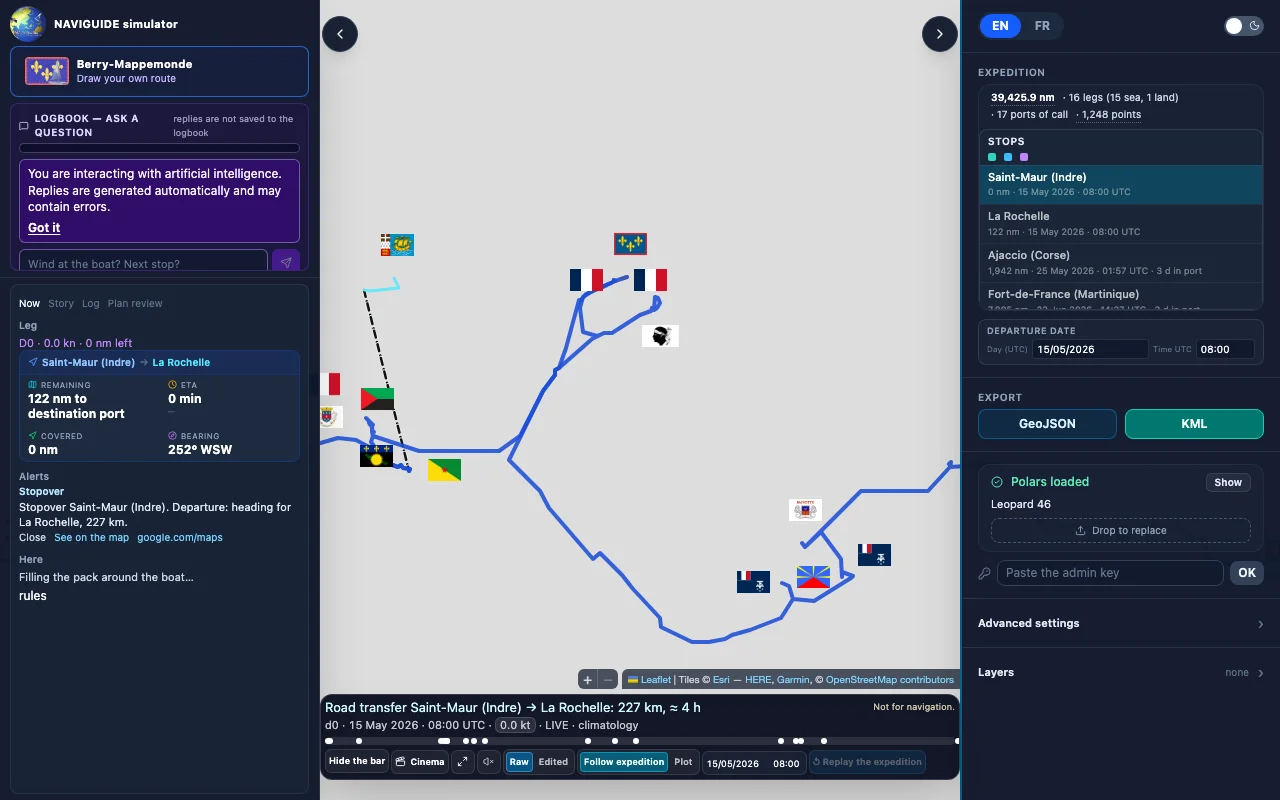
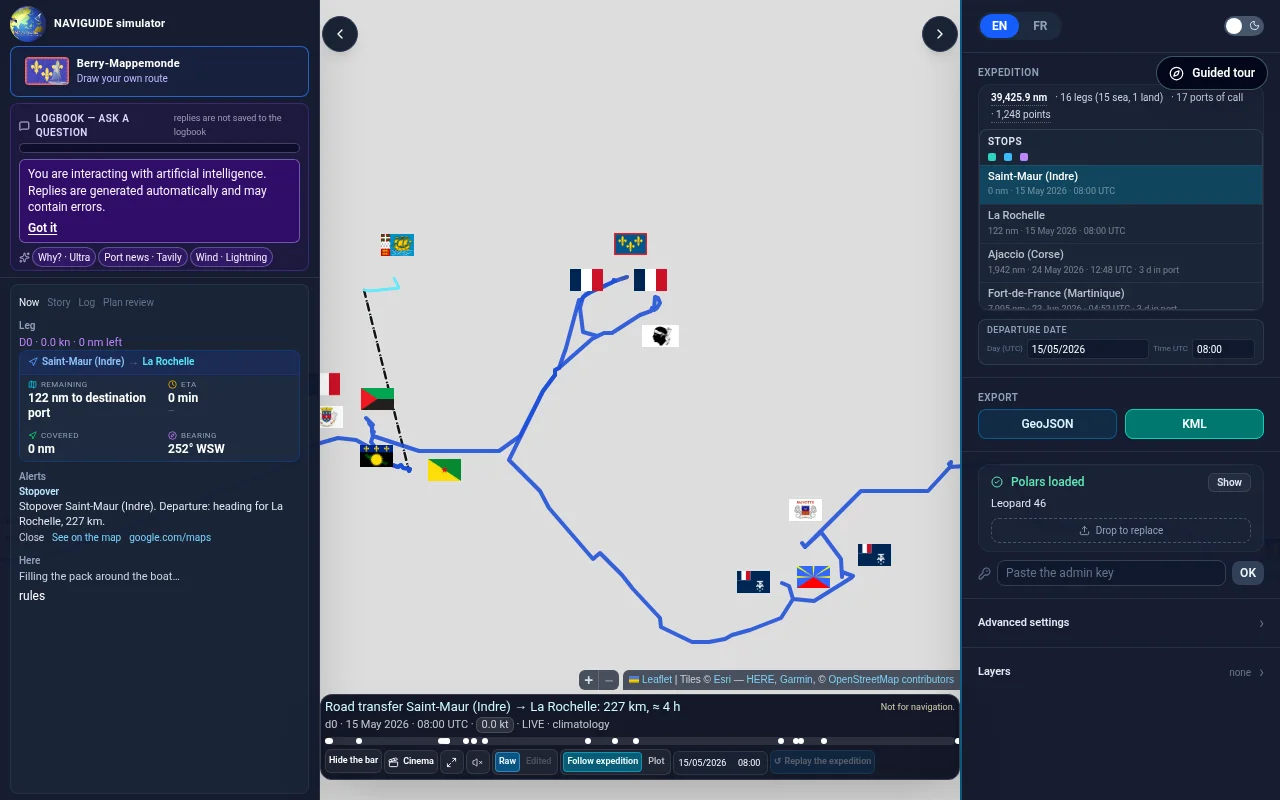
feat: Enable Tavily watch by default (NAVIGUIDE_TAVILY_WATCH=1) - Change default of NAVIGUIDE_TAVILY_WATCH from '0' to '1' in server/escale_watch.py - Update tests to explicitly force NAVIGUIDE_TAVILY_WATCH=0 where needed - Add test for default watch enabled behavior - Update README.md and docs/AI_G

diff --git a/naviguide-simulator/e2e/lots/zz-shots-tmp.spec.js b/naviguide-simulator/e2e/lots/zz-shots-tmp.spec.js
@@ -1,0 +1,16 @@
+import { expect, test } from "@playwright/test";
+import { dismissNotForNav } from "../helpers.js";
+const IDS = ["welcome","models","live","briefing","layers","replay","trace","return"];
+test("shots", async ({ page }) => {
+  await page.setViewportSize({ width: 1440, height: 900 });
+  await page.goto("/"); await dismissNotForNav(page);
+  await expect(page.getByTestId("film-bar")).toBeVisible({ timeout: 30_000 });
+  await page.getByTestId("demo-walkthrough-launch").click();
+  const dir = process.env.SHOTS;
+  for (let i = 0; i < IDS.length; i++) {
+    await expect(page.getByTestId("demo-walkthrough-panel")).toHaveAttribute("data-step", IDS[i]);
+    await page.waitForTimeout(1500);
+    await page.screenshot({ path: `${dir}/${String(i+1).padStart(2,"0")}-${IDS[i]}.png` });
+    if (i < IDS.length - 1) await page.getByTestId("demo-walkthrough-next").click();
+  }
+});

diff --git a/naviguide-simulator/server/tests/conftest.py b/naviguide-simulator/server/tests/conftest.py
@@ -24,8 +24,8 @@ os.environ.setdefault("NAVIGUIDE_STORY_PREGEN", "0")
 # MockTransport des tests ne servent que /chat/completions. Les tests du garde
 # le rallument eux-mêmes (test_tf_model_guard.py).
 os.environ.setdefault("NAVIGUIDE_TF_MODEL_GUARD", "0")
-# Pas de boucle veille Tavily pendant les tests.
-os.environ.setdefault("NAVIGUIDE_TAVILY_WATCH", "0")
+# Nouveau défaut : 1 (PR #401). Les tests qui forcent 0 le font explicitement.
+os.environ.setdefault("NAVIGUIDE_TAVILY_WATCH", "1")
 
 # Le secret admin d'un .env local ne doit pas faire échouer les tests qui
 # écrivent (TestClient = appel local direct → mode dev). Les tests du garde

diff --git a/naviguide-simulator/server/tests/test_escale_watch.py b/naviguide-simulator/server/tests/test_escale_watch.py
@@ -248,6 +248,14 @@ def test_flag_closed_zero_tavily_search(monkeypatch):
     assert not escale_watch.watch_done("Nouméa")
 
 
+def test_default_watch_enabled(monkeypatch):
+    """Défaut actif : sans variable d'env, watch_enabled() est True (PR #401)."""
+    _keys(monkeypatch)
+    # Ne pas forcer NAVIGUIDE_TAVILY_WATCH — on teste le défaut
+    monkeypatch.delenv("NAVIGUIDE_TAVILY_WATCH", raising=False)
+    assert escale_watch.watch_enabled() is True
+
+
 def test_two_rounds_max_lightning_picks_from_list(monkeypatch):
     _keys(monkeypatch)
     journal.reset()

diff --git a/naviguide-simulator/server/escale_watch.py b/naviguide-simulator/server/escale_watch.py
@@ -94,7 +94,7 @@ def slug(name: str) -> str:
 def watch_enabled() -> bool:
     """Zéro recherche tant que le drapeau n'est pas ouvert.
 
-    Défaut 1 (PR #158). Le 15 oct. `ici_warm` lisait 1 ; le poste
+    Défaut 1 (PR #401). Le 15 oct. `ici_warm` lisait 1 ; le poste
     ouvre `NAVIGUIDE_TAVILY_WATCH=1`. Les tests forcent 0.
     """
     return (os.environ.get("NAVIGUIDE_TAVILY_WATCH") or "1").strip().lower() in (

diff --git a/README.md b/README.md
@@ -96,7 +96,7 @@ Tavily is called at runtime in three places a visitor reaches: the logbook chat,
 
 The stop watch below is a separate server job.
 
-The watch is a server job. It stays off until `NAVIGUIDE_TAVILY_WATCH=1` (the default is `0`). When it is on, it covers a stop from 10 days before arrival through 2 days after, at most two rounds, once per stop. Lightning writes one sentence from the extracts. If a second round is needed, the `nano` tier (Lightning) picks one remaining id from a fixed list. It does not invent a question. Caps, unless overridden: 2 searches per stop, 6 searches per day, 80 Tavily credits per day. The dated card, when a watch is stored and not expired, is titled `{name} · watch of {date}`.
+The watch is a server job. It is on by default (`NAVIGUIDE_TAVILY_WATCH=0` turns it off). When it is on, it covers a stop from 10 days before arrival through 2 days after, at most two rounds, once per stop. Lightning writes one sentence from the extracts. If a second round is needed, the `nano` tier (Lightning) picks one remaining id from a fixed list. It does not invent a question. Caps, unless overridden: 2 searches per stop, 6 searches per day, 80 Tavily credits per day. The dated card, when a watch is stored and not expired, is titled `{name} · watch of {date}`.
 
 The separate “re-read the official port page” judge is off unless `NAVIGUIDE_TRUTH_JUDGE=1`.
 
